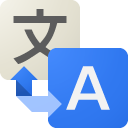
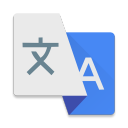
13
added new icons
added Google Contacts
some minor changes

diff --git a/Google Services/js/background.js b/Google Services/js/background.js
@@ -12,17 +12,17 @@ function ContextMenu() {
 		chrome.contextMenus.removeAll();
 		if (items.context != null && items.context.length > 0) {
 			var ctx = ["all", "page", "frame", "selection", "link", "editable", "image", "video", "audio"];
-			chrome.contextMenus.create({
-				id : 'parent',
-				title : 'Google Services',
-				contexts : ctx
-			});
-			
+			// chrome.contextMenus.create({
+				// id : 'parent',
+				// title : 'Google Services',
+				// contexts : ctx
+			// });
+
 			for (var i = 0; i < items.context.length; i++) {
 				switch (items.context[i]) {
 				case "contextTranslate":
 					chrome.contextMenus.create({
-						parentId : 'parent',
+						//parentId : 'parent',
 						id : 'translate',
 						title : 'Google Translate',
 						contexts : ctx
@@ -31,7 +31,7 @@ function ContextMenu() {
 
 				case "contextShortener":
 					chrome.contextMenus.create({
-						parentId : 'parent',
+						//parentId : 'parent',
 						id : 'url',
 						title : 'Url Shortener',
 						contexts : ctx
@@ -43,24 +43,24 @@ function ContextMenu() {
 	});
 }
 
-chrome.contextMenus.onClicked.addListener(function (info, tab){
-	switch(info.menuItemId){
-		case "translate":
-			if (info.selectionText != null && info.selectionText.length > 0) {
-				chrome.storage.local.get({
-						"language" : "en"
-					}, function (items) {
-						translateLink = 'https://translate.google.com/#auto/' + items.language + '/' + info.selectionText.replace(/ /g, '%20');
-						GetTranslate(info.selectionText, items.language);
-				});
-			} else {
-				chrome.tabs.create({
-					'url' : 'https://translate.google.com'
-				});
-			}
-		break;			
+chrome.contextMenus.onClicked.addListener(function (info, tab) {
+	switch (info.menuItemId) {
+	case "translate":
+		if (info.selectionText != null && info.selectionText.length > 0) {
+			chrome.storage.local.get({
+				"language" : "en"
+			}, function (items) {
+				translateLink = 'https://translate.google.com/#auto/' + items.language + '/' + info.selectionText.replace(/ /g, '%20');
+				GetTranslate(info.selectionText, items.language);
+			});
+		} else {
+			chrome.tabs.create({
+				'url' : 'https://translate.google.com'
+			});
+		}
+		break;
 	case "url":
-			Url();	
+		Url();
 		break;
 	}
 });
@@ -213,14 +213,22 @@ chrome.notifications.onClicked.addListener(function (notificationId) {
 
 //
 
-chrome.extension.onMessage.addListener(
-	function (request, sender, send_response) {
-	var updateTimer = setInterval(function () {
-			UpdateUnreadCount();
-		}, 1000);
-	setTimeout(function () {
-		clearInterval(updateTimer);
-	}, 180000);
+chrome.extension.onMessage.addListener(function (request, sender, sendResponse) {
+	switch(request.message){
+		case "UpdateUnreadCounter":
+			console.log("UpdateUnreadCounter");
+			var updateTimer = setInterval(function () {
+				UpdateUnreadCount();
+			}, 1000);
+			setTimeout(function () {
+				clearInterval(updateTimer);
+			}, 180000);		
+			break;
+		case "SelectedText":
+			console.log("SelectedText");
+			selected = request.selectedText;		
+			break;
+	}
 });
 
 chrome.runtime.onInstalled.addListener(function (details) {
@@ -230,11 +238,11 @@ chrome.runtime.onInstalled.addListener(function (details) {
 		});
 		chrome.tabs.create({
 			'url' : chrome.extension.getURL('html/options.html')
-		});	
+		});
 	} else if (details.reason == "update") {
 		chrome.tabs.create({
 			'url' : chrome.extension.getURL('html/donate.html')
-		});			
+		});
 	}
 	ContextMenu();
 });
@@ -253,16 +261,39 @@ chrome.tabs.onRemoved.addListener(function () {
 	UpdateUnreadCount();
 });
 
-chrome.tabs.onHighlighted.addListener(function() {
+chrome.tabs.onHighlighted.addListener(function () {
 	UpdateUnreadCount();
 });
 
-chrome.idle.onStateChanged.addListener(function() {
+chrome.idle.onStateChanged.addListener(function () {
 	UpdateUnreadCount();
 });
 
-chrome.windows.onFocusChanged.addListener(function() {
-	UpdateUnreadCount();	
+chrome.windows.onFocusChanged.addListener(function () {
+	UpdateUnreadCount();
 });
 
 document.addEventListener('DOMContentLoaded', UpdateUnreadCount);
+
+chrome.commands.onCommand.addListener(function (command) {
+	switch (command) {
+	case "Translate Selected":
+		// chrome.extension.sendMessage({
+			// message : "GetSelectedText"
+		// }, function (response) {
+			// console.log(response.selectedText);
+			// GetTranslate(response.selectedText, "ru");
+		// });
+		// chrome.extension.onMessage.addListener(function (request, sender, sendResponse) {
+			// if (request.message == "SelectedText"){
+				// console.log("SelectedText");
+				// GetTranslate(request.selectedText, "ru");
+			// }
+		// });
+		//GetTranslate(selected, "ru");
+		break;
+	case "Url Shortener":
+		Url();
+		break;
+	}
+});

diff --git a/Google Services/html/options.html b/Google Services/html/options.html
@@ -5,7 +5,7 @@
 		<title>Google Services Options</title>
 		<script language="javascript" src="../js/background.js"></script>
 		<script language="javascript" src="../js/options.js"></script>
-		<link type="text/css" href="style.css" rel="stylesheet">
+		<link type="text/css" href="../css/options.css" rel="stylesheet">
 	</head>
 	<!--  -->
 	<body>
@@ -17,36 +17,39 @@
 						<br>
 						<p><input type="checkbox" name="popupOptions" value="popupMail" id="mailPopupOption">
 						<label for="mailPopupOption">Google Mail</label></p>
-						
+
 						<p><input type="checkbox" name="popupOptions" value="popupPlus" id="plusPopupOption"> 
 						<label for="plusPopupOption">Google Plus</label></p>
-						
+
 						<p><input type="checkbox" name="popupOptions" value="popupTranslate" id="translatePopupOption"> 
 						<label for="translatePopupOption">Google Translate</label></p>
-						
+
 						<p><input type="checkbox" name="popupOptions" value="popupDrive" id="drivePopupOption">
 						<label for="drivePopupOption">Google Drive</label></p>
-						
+
 						<p><input type="checkbox" name="popupOptions" value="popupSearch" id="searchPopupOption">
 						<label for="searchPopupOption">Google Search</label></p>
-						
+
 						<p><input type="checkbox" name="popupOptions" value="popupMaps" id="mapsPopupOption"> 
 						<label for="mapsPopupOption">Google Maps</label></p>
-						
+
 						<p><input type="checkbox" name="popupOptions" value="popupPlay" id="playPopupOption"> 
 						<label for="playPopupOption">Google Play</label></p>
-						
+
 						<p><input type="checkbox" name="popupOptions" value="popupNews" id="newsPopupOption">
 						<label for="newsPopupOption">Google News</label></p>
-						
+
 						<p><input type="checkbox" name="popupOptions" value="popupCalendar" id="calendarPopupOption">
 						<label for="calendarPopupOption">Google Calendar</label></p>
+
+						<p><input type="checkbox" name="popupOptions" value="popupContacts" id="contactsPopupOption">
+						<label for="contactsPopupOption">Google Contacts</label></p>
 						
 						<p><input type="checkbox" name="popupOptions" value="popupYoutube" id="youtubePopupOption">
 						<label for="youtubePopupOption">Youtube</label></p>
 						
 						<p><input type="checkbox" name="popupOptions" value="popupShortener" id="shortenerPopupOption">
-						<label for="shortenerPopupOption">Url Shortener</label></p>		
+						<label for="shortenerPopupOption">Url Shortener</label></p>
 					</td>
 					<td valign="top" nowrap width="50%" height="24%">
 						<b>Mail Service:</b>
@@ -143,7 +146,7 @@
 				</tr>
 				<tr align="center">
 					<td colspan="2" height="40px">
-						<p><input type="button" value="Save" id="saveButton" style="width: 120px; height:20px;"></p>
+						<p><input type="button" value="Save" id="saveButton" style="width: 150px; height:30px;"></p>
 					</td>
 				</tr>
 			</table>

diff --git a/Google Services/js/popup.js b/Google Services/js/popup.js
@@ -1,7 +1,7 @@
 document.addEventListener('DOMContentLoaded', function () {
 	chrome.storage.local.get({
 		"options" : ["popupMail", "popupPlus", "popupTranslate", "popupDrive", "popupSearch",
-			"popupMaps", "popupPlay", "popupNews", "popupCalendar", "popupYoutube", "popupShortener", "mailGmail"]
+			"popupMaps", "popupPlay", "popupNews", "popupCalendar", "popupContacts", "popupYoutube", "popupShortener", "mailGmail"]
 	}, function (items) {
 		var ul = document.getElementById("list");
 		if (items.options != null && items.options.length > 0) {
@@ -90,6 +90,16 @@ document.addEventListener('DOMContentLoaded', function () {
 					li.onclick = function () {
 						chrome.tabs.create({
 							'url' : 'https://calendar.google.com'
+						});
+					};
+					break;
+					
+				case "popupContacts":
+					li.setAttribute("id", "contacts");
+					li.innerHTML = "<hr>Google Contacts";
+					li.onclick = function () {
+						chrome.tabs.create({
+							'url' : 'https://contacts.google.com'
 						});
 					};
 					break;

diff --git a/Google Services/js/options.js b/Google Services/js/options.js
@@ -1,7 +1,7 @@
 document.addEventListener('DOMContentLoaded', function () {
 	chrome.storage.local.get({
 		"options" : ["popupMail", "popupPlus", "popupTranslate", "popupDrive", "popupSearch",
-			"popupMaps", "popupPlay", "popupNews", "popupCalendar", "popupYoutube", "popupShortener", "mailGmail"],
+			"popupMaps", "popupPlay", "popupNews", "popupCalendar", "popupContacts", "popupYoutube", "popupShortener", "mailGmail"],
 		"context" : ["contextTranslate", "contextShortener"],
 		"language" : "en"
 	}, function (items) {
@@ -44,6 +44,10 @@ document.addEventListener('DOMContentLoaded', function () {
 					document.getElementById("calendarPopupOption").checked = true;
 					break;
 
+				case "popupContacts":
+					document.getElementById("contactsPopupOption").checked = true;
+					break;
+					
 				case "popupYoutube":
 					document.getElementById("youtubePopupOption").checked = true;
 					break;

diff --git a/Google Services/css/popup.css b/Google Services/css/popup.css
@@ -5,27 +5,15 @@
 	font-family: Verdana, Arial, Helvetica, sans-serif;
 	cursor: default;
 	outline : 0;
+	list-style-type: none;
 }
 
 ::selection{ 
 	background: transparent; 
 }
 
-/* options.html */
-#optionsDiv{
-	width: 500px;
-	margin: auto;
-}
-
-input:hover, label:hover{
-	cursor: pointer;
-}
-
-
-
 /* popup.html */
 ul{
-	list-style-type: none;
 	width: 150px;
 }
 
@@ -74,4 +62,7 @@ li:hover, li:hover > label{
 }
 #shortener{
 	background-image: url(../img/shortener.png);
+}
+#contacts{
+	background-image: url(../img/contacts.png);
 }

diff --git a/Google Services/css/options.css b/Google Services/css/options.css
@@ -1,0 +1,24 @@
+*{
+	margin: 0;
+	padding: 0;
+	background-color: #EEE;
+	font-family: Verdana, Arial, Helvetica, sans-serif;
+	cursor: default;
+	outline : 0;
+	list-style-type: none;
+	font-size: 16px;
+}
+
+::selection{ 
+	background: transparent; 
+}
+
+/* options.html */
+#optionsDiv{
+	width: 500px;
+	margin: auto;
+}
+
+input:hover, label:hover{
+	cursor: pointer;
+}

diff --git a/Google Services/html/popup.html b/Google Services/html/popup.html
@@ -4,7 +4,7 @@
 		<meta charset="utf-8" >
 		<script language="javascript" src="../js/background.js"></script>
 		<script language="javascript" src="../js/popup.js"></script>
-		<link type="text/css" href="style.css" rel="stylesheet">
+		<link type="text/css" href="../css/popup.css" rel="stylesheet">
 	</head>
 	<!--  -->
 	<body>

diff --git a/Google Services/js/contentscript.js b/Google Services/js/contentscript.js
@@ -1,3 +1,3 @@
 chrome.extension.sendMessage({
-	message : "updateUnreadCounter"
-}, function (response) {});
+	message : "UpdateUnreadCounter"
+});
